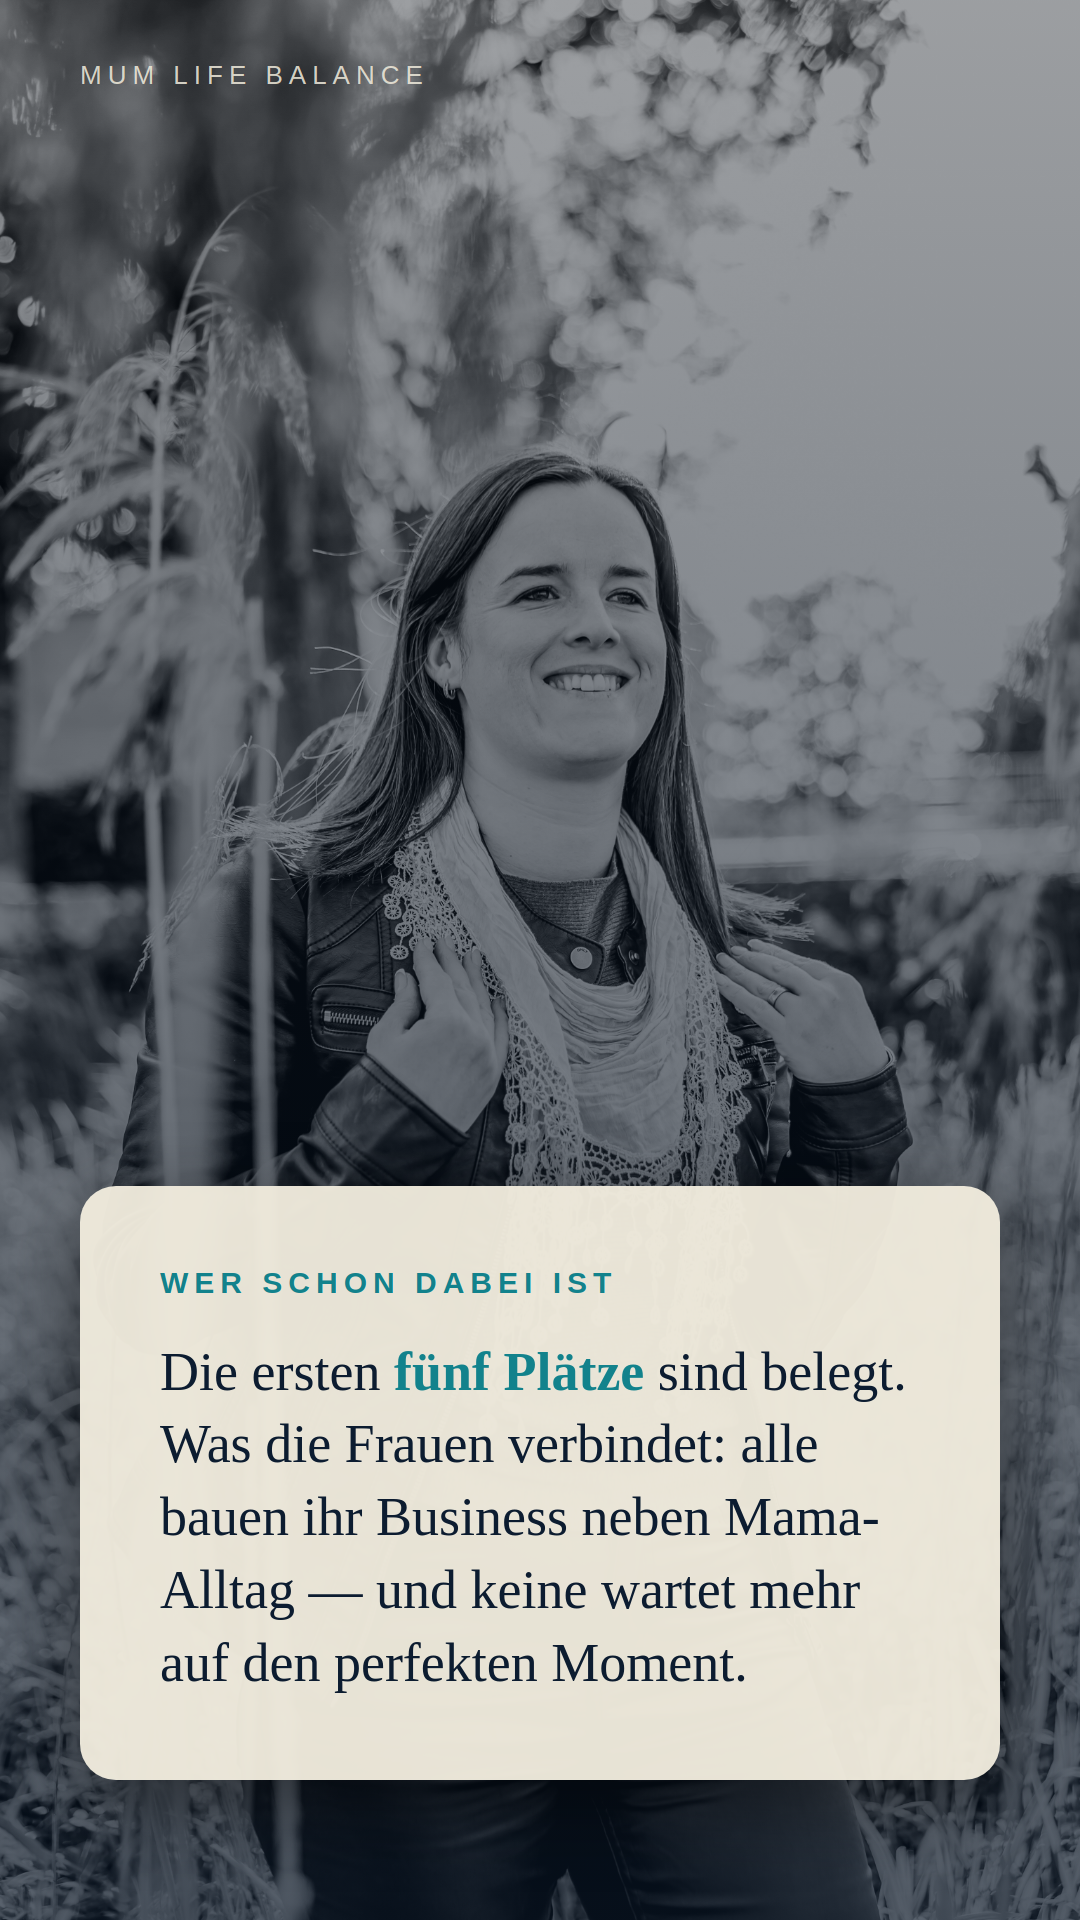
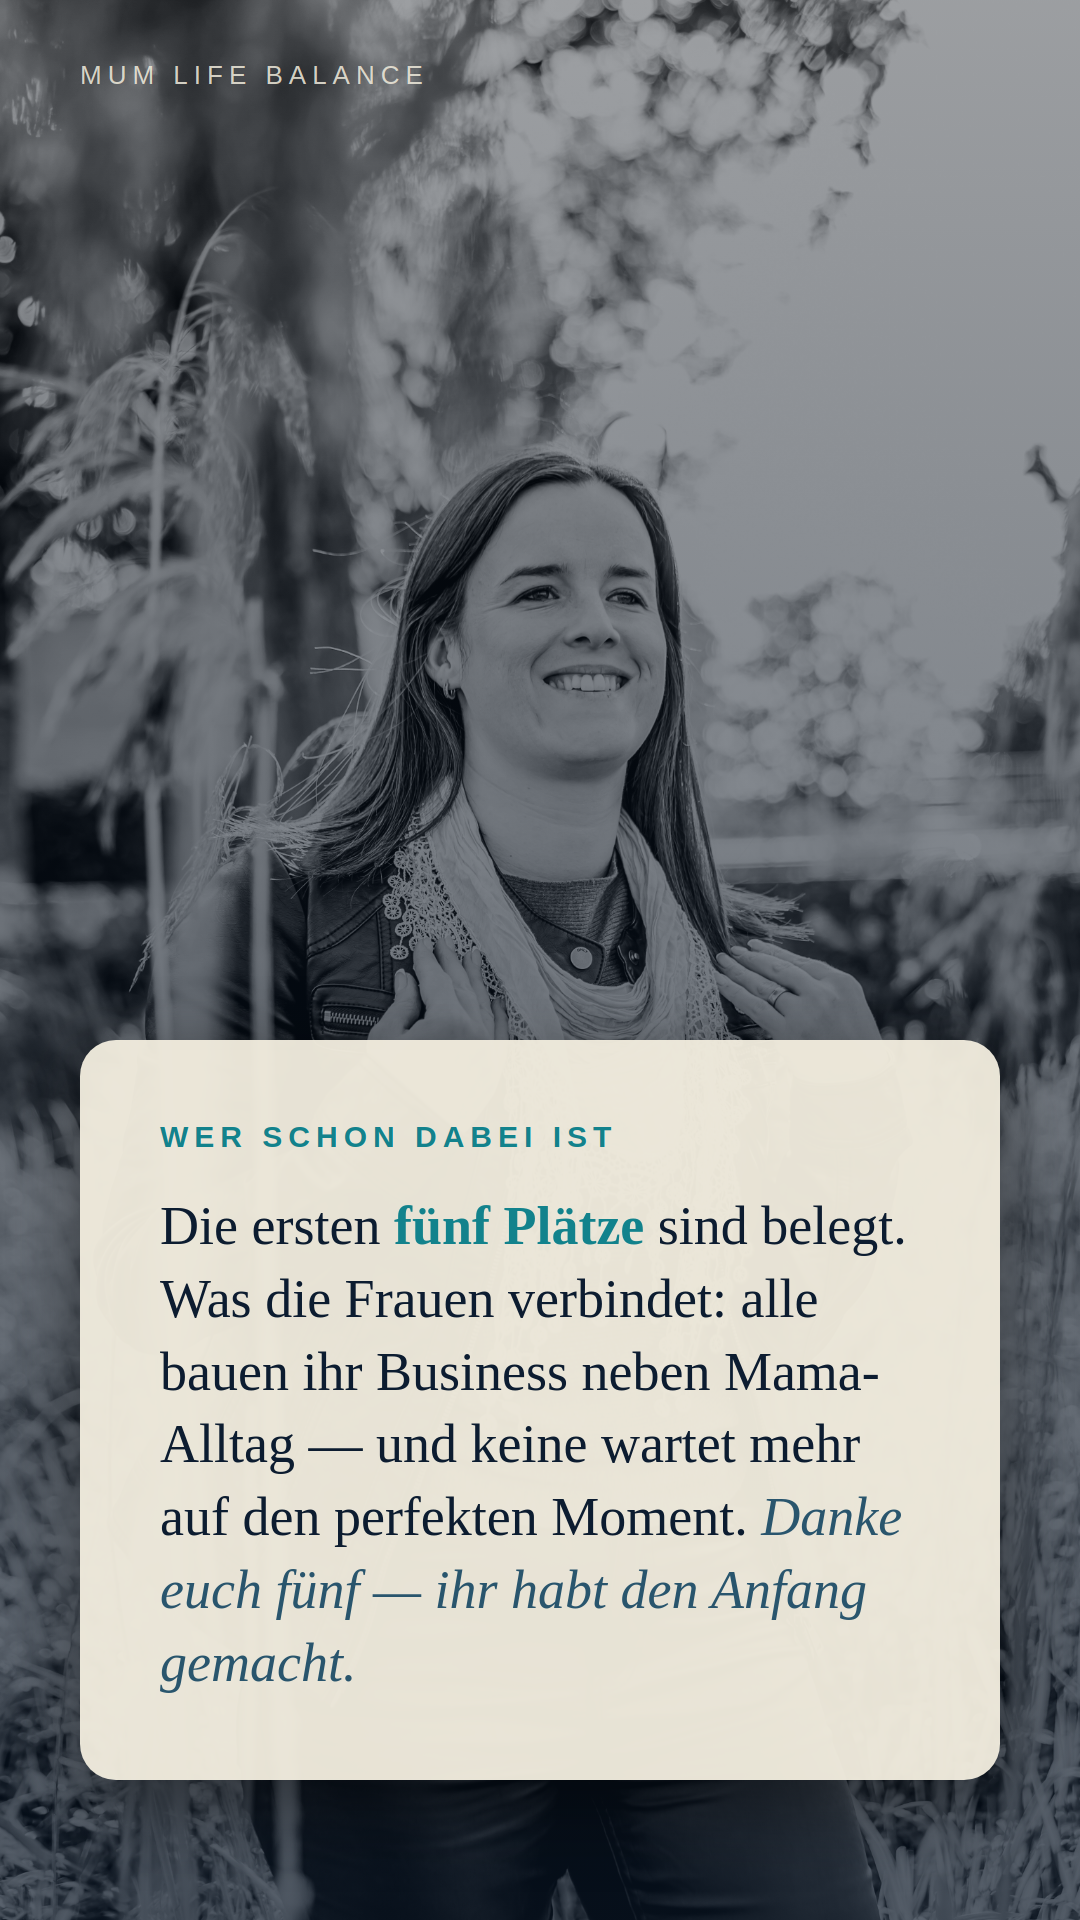
story: Tag 3 — Slide 2 + 3 ueberarbeitet (Julia-Tag-3-konform fuer Patricias Setup)
Patricia-Feedback: kein Bonus, kein Secret Offer im Setup. Damit gilt
einfacheres Cart-Open-Modell — Julias Boni-Hebel und Secret-Offer-
Uebergang sind nicht relevant. Andere Julia-Tag-3-Elemente bleiben:
Preiswechsel offiziell, Social Proof, Module, Kaeufertypen.

Zwei Optimierungen:
- Slide 2: Wertschaetzung der 5 Fruehbucher („Danke euch fuenf — ihr
  habt den Anfang gemacht") — Julia-Regel „erste Kaeuferinnen nie
  schlecht stehen lassen", ohne Bonus-Versprechen
- Slide 3: weniger reflektiv, mehr „dauerhaft hohe Energie" — neuer
  Text „Fruehbucher durch. Regulaer laeuft. Anmeldungen kommen weiter
  rein. Mama-CEO startet am 1. Juni — die Frage ist nur noch, ob du
  dabei bist."

Changed region(s): [[0.0611, 0.5312, 0.9472, 0.875]]

diff --git a/outputs/stories/2026-05-23-salesday-mentoring-mama-ceo-launch-tag-3/slides.html b/outputs/stories/2026-05-23-salesday-mentoring-mama-ceo-launch-tag-3/slides.html
@@ -52,7 +52,7 @@
         <div class="card">
           <div class="card-eyebrow">Wer schon dabei ist</div>
           <div class="card-text">
-            Die ersten <strong>fünf Plätze</strong> sind belegt. Was die Frauen verbindet: alle bauen ihr Business neben Mama-Alltag — und keine wartet mehr auf den perfekten Moment.
+            Die ersten <strong>fünf Plätze</strong> sind belegt. Was die Frauen verbindet: alle bauen ihr Business neben Mama-Alltag — und keine wartet mehr auf den perfekten Moment. <em>Danke euch fünf — ihr habt den Anfang gemacht.</em>
           </div>
         </div>
       </div>
@@ -68,9 +68,9 @@
         <div class="dim"></div>
         <div class="brand-tag">Mum Life Balance</div>
         <div class="card">
-          <div class="card-eyebrow">Was an Tag 3 passiert</div>
+          <div class="card-eyebrow">Tag 3 · der Übergang</div>
           <div class="card-text">
-            Frühbucher ist durch — und jetzt fängt der eigentliche Launch an. Die ersten Käuferinnen haben aus <em>Begeisterung</em> gekauft. Die nächsten kaufen aus <strong>Klarheit</strong>. Und genau die hole ich jetzt ab.
+            Frühbucher durch. Regulär läuft. Anmeldungen kommen weiter rein. Mama-CEO startet am <strong>1. Juni</strong> — die Frage ist nur noch, ob du dabei bist.
           </div>
         </div>
       </div>
